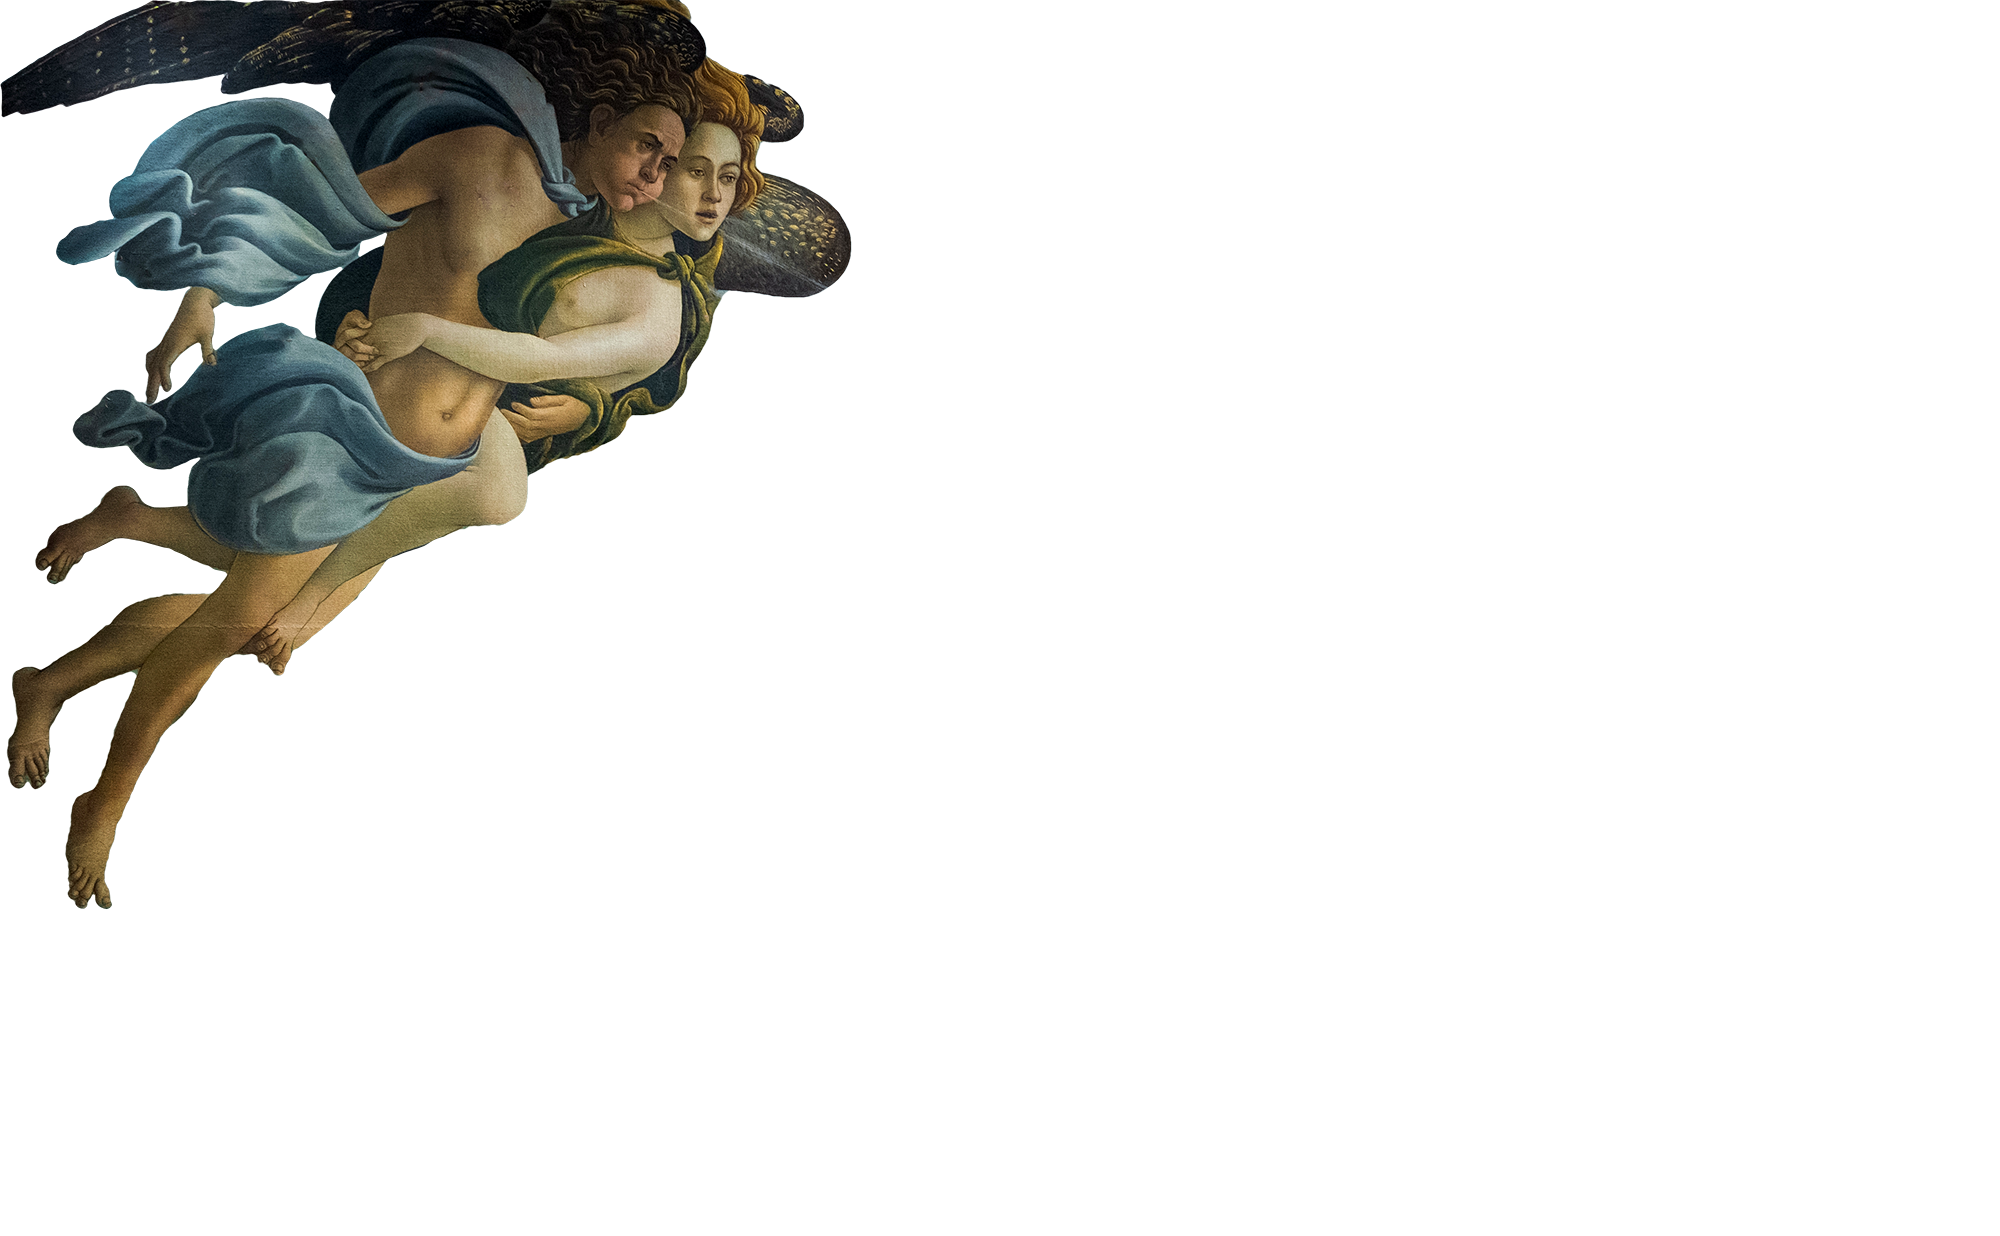
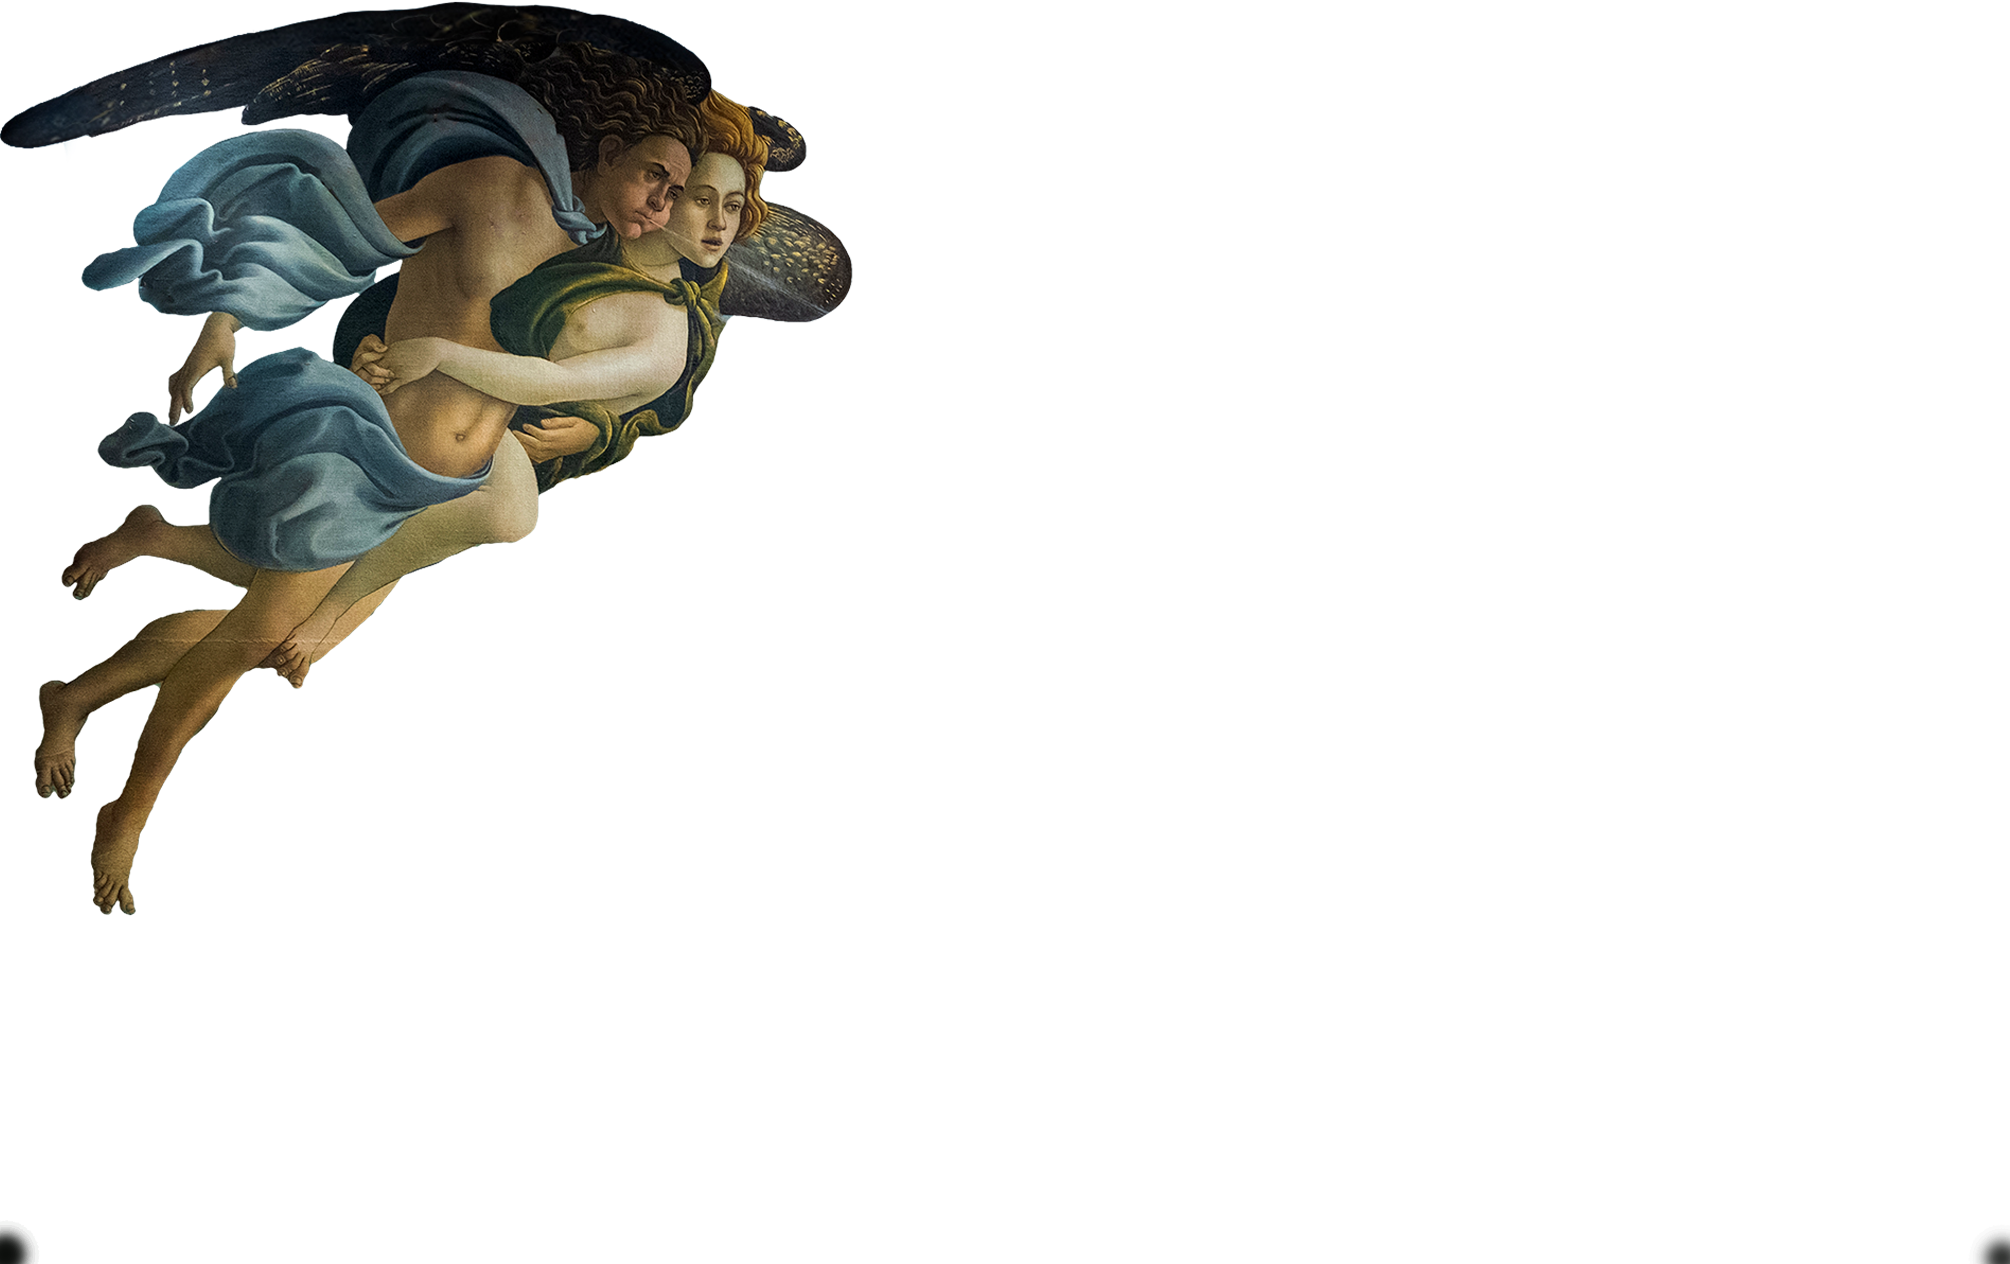
Update HomeImages.scss and image files- adjust wing and hair burn

Changed region(s): [[0.0, 0.0, 0.434, 0.7379], [0.961, 0.9531, 1.0, 1.0], [0.0, 0.9531, 0.031, 1.0]]

diff --git a/src/pages/home/HomeImages.scss b/src/pages/home/HomeImages.scss
@@ -16,6 +16,14 @@
     }
   }
 
+  .image-6 {
+    position: absolute;
+    bottom: 13px;
+    left: 0;
+    width: 98%;
+    // height: 100%;
+    object-fit: cover;
+  }
   .static-image {
     position: absolute;
     top: 0;
